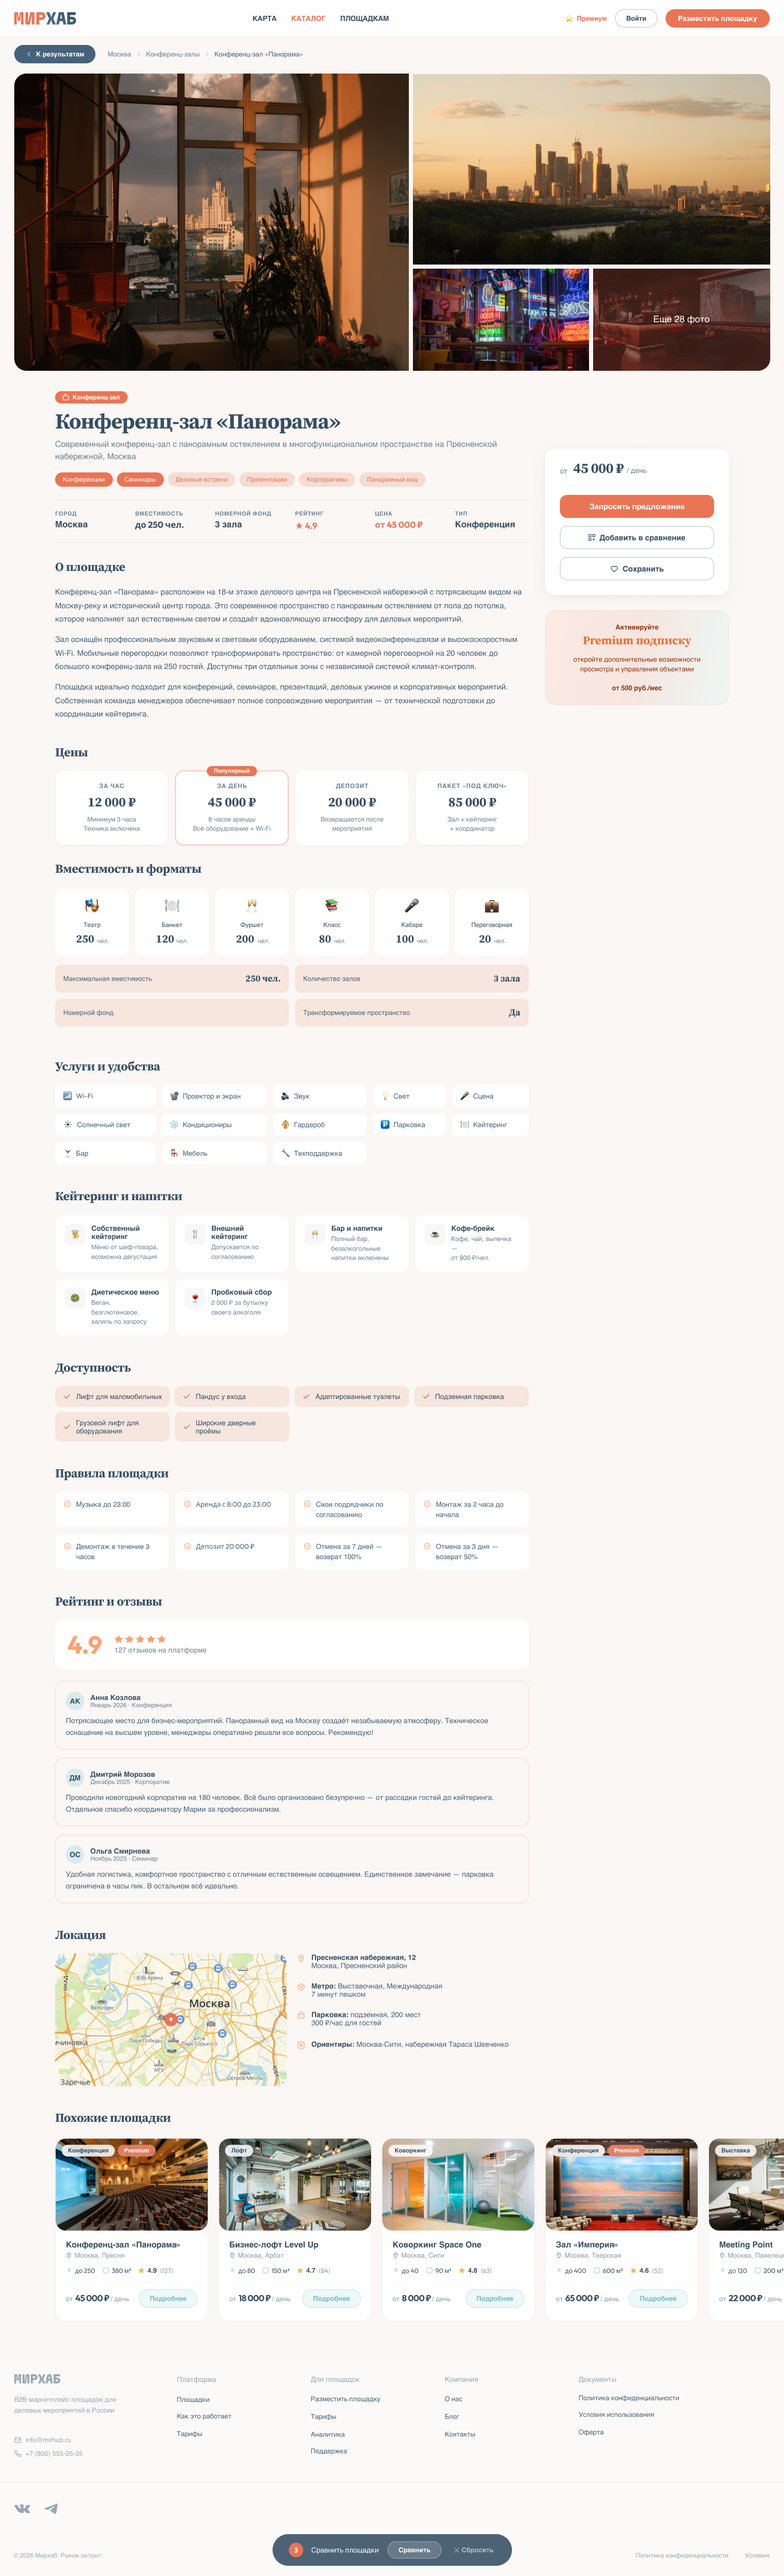
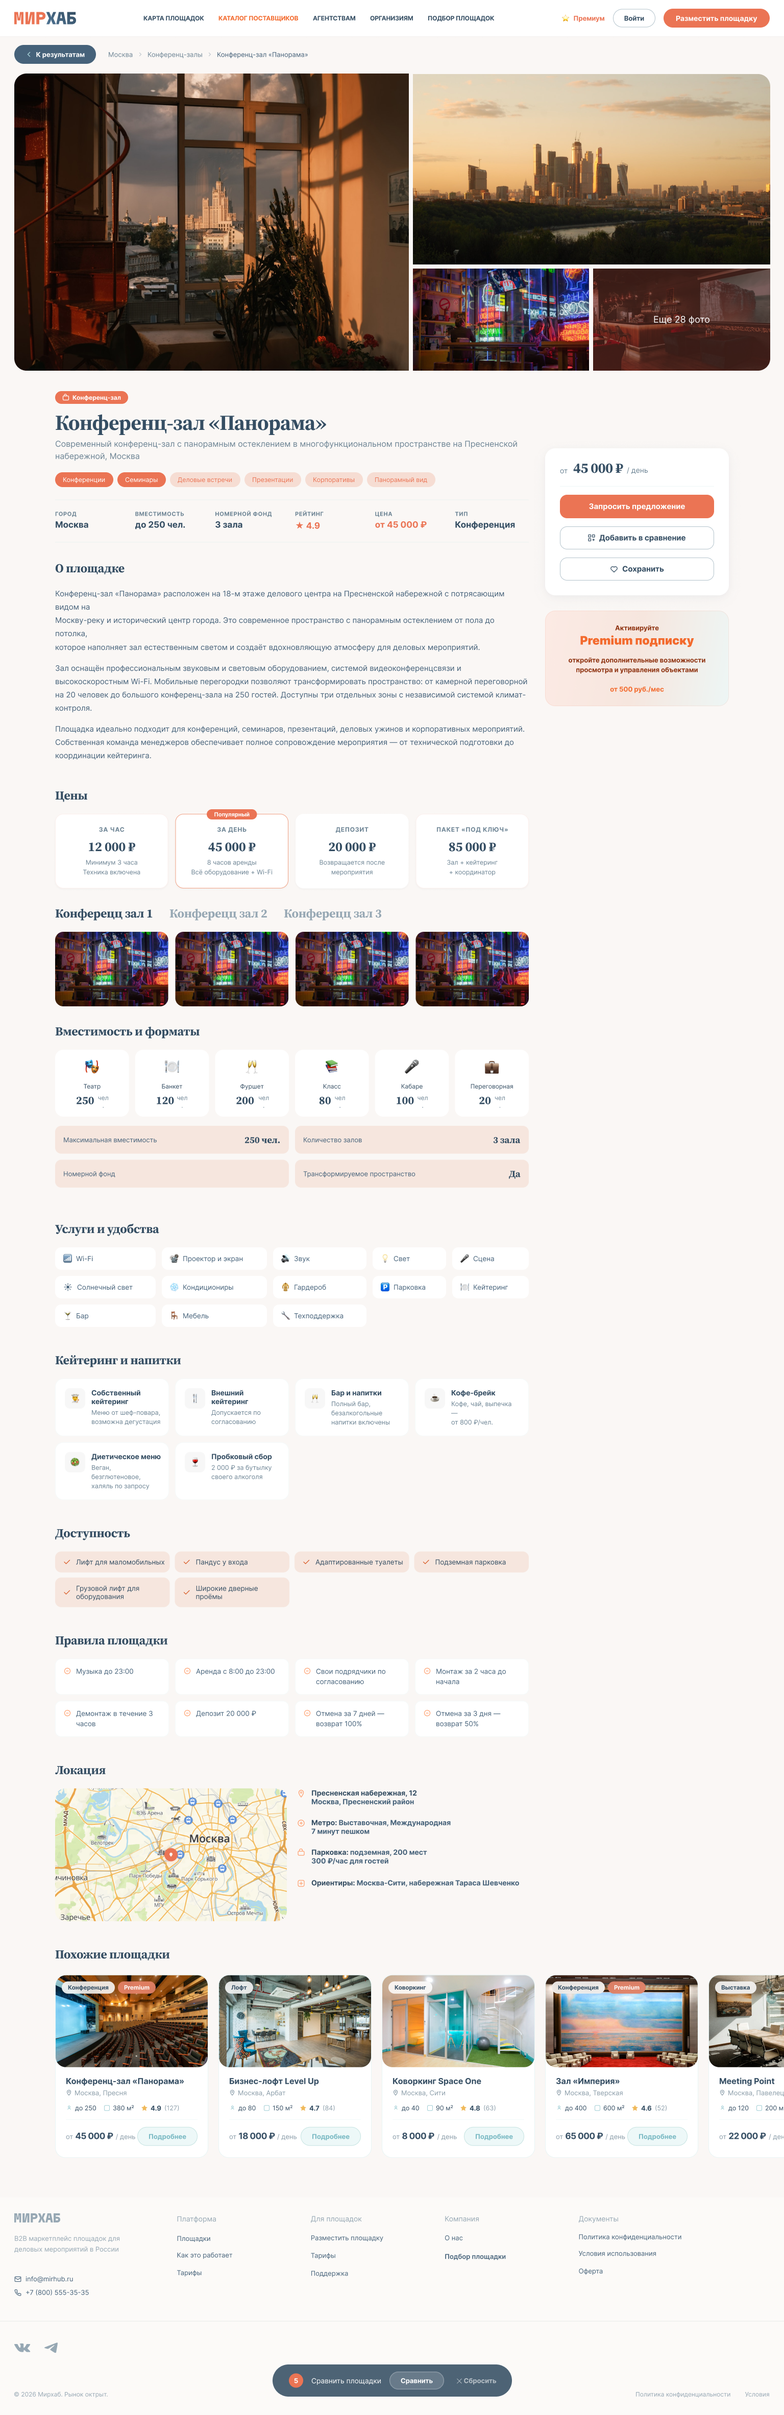
Add feedback popup, История презентаций section, and bind contact links
- shared.js: Add MH.feedback() modal with name/email/topic chips/message fields and success state; wire footer Поддержка and Связаться с нами links to popup
- dashboard.html: Add История презентаций table to user dashboard overview page
- privacy.html: Replace mailto link with MH.feedback() popup
- venue.html: Bind Написать менеджеру button to MH.feedback()
- assets/shots: Rename screenshot files to remove spaces

diff --git a/app/shared.js b/app/shared.js
@@ -349,11 +349,12 @@ const MH = (() => {
             <h4>Для площадок</h4>
             <a href="list-venue.html">Разместить площадку</a>
             <a href="pricing.html">Тарифы</a>
-            <a href="#">Поддержка</a>
+            <a href="#" onclick="event.preventDefault();MH.feedback()">Поддержка</a>
           </div>
           <div class="mh-ft-col">
             <h4>Компания</h4>
             <a href="#">О нас</a>
+            <a href="#" onclick="event.preventDefault();MH.feedback()">Связаться с нами</a>
             <a href="request-form.html" class="bold">Подбор площадки</a>
           </div>
           <div class="mh-ft-col">
@@ -428,5 +429,155 @@ const MH = (() => {
     }, 3000);
   }
 
-  return { getSession, setSession, clearSession, renderNav, init, toast, go, getFavs, toggleFav, isFav };
+  function feedback() {
+    if (document.getElementById('mh-feedback-overlay')) {
+      document.getElementById('mh-feedback-overlay').style.display = 'flex';
+      return;
+    }
+    const style = document.createElement('style');
+    style.textContent = `
+      #mh-feedback-overlay {
+        position: fixed; inset: 0; z-index: 9000;
+        background: rgba(53,78,99,.35); backdrop-filter: blur(6px);
+        display: flex; align-items: center; justify-content: center; padding: 20px;
+        animation: mhFbIn .2s ease;
+      }
+      @keyframes mhFbIn { from { opacity:0 } to { opacity:1 } }
+      #mh-feedback-modal {
+        background: #fff; border-radius: 20px; width: 100%; max-width: 480px;
+        box-shadow: 0 24px 64px rgba(53,78,99,.18); overflow: hidden;
+        animation: mhFbSlide .25s ease;
+      }
+      @keyframes mhFbSlide { from { transform: translateY(16px); opacity:0 } to { transform: translateY(0); opacity:1 } }
+      .mhfb-head {
+        padding: 24px 28px 0; display: flex; align-items: flex-start; justify-content: space-between;
+      }
+      .mhfb-title { font-family: 'DM Serif Display', serif; font-size: 22px; color: #354E63; }
+      .mhfb-sub { font-size: 13.5px; color: #7A919F; margin-top: 4px; }
+      .mhfb-close {
+        width: 32px; height: 32px; border-radius: 50%; border: 1.5px solid #B4C3CC;
+        background: #fff; color: #7A919F; display: flex; align-items: center; justify-content: center;
+        cursor: pointer; transition: all .2s; flex-shrink: 0; font-size: 14px;
+      }
+      .mhfb-close:hover { border-color: #E8846A; color: #E8846A; }
+      .mhfb-body { padding: 20px 28px 28px; }
+      .mhfb-field { margin-bottom: 16px; }
+      .mhfb-label {
+        display: block; font-size: 11.5px; font-weight: 700; text-transform: uppercase;
+        letter-spacing: .07em; color: #7A919F; margin-bottom: 7px;
+      }
+      .mhfb-input {
+        width: 100%; padding: 11px 15px; border-radius: 10px;
+        border: 1.5px solid rgba(197,227,225,.5); background: #F8F5F2;
+        font-family: 'Outfit', sans-serif; font-size: 14px; color: #354E63;
+        outline: none; transition: border-color .2s;
+      }
+      .mhfb-input:focus { border-color: #E8846A; background: #fff; }
+      .mhfb-row { display: grid; grid-template-columns: 1fr 1fr; gap: 12px; margin-bottom: 16px; }
+      .mhfb-chips { display: flex; gap: 7px; flex-wrap: wrap; }
+      .mhfb-chip {
+        padding: 6px 14px; border-radius: 50px; font-size: 12.5px; font-weight: 500;
+        background: #F6E6DE; color: #46627A; border: 1.5px solid transparent;
+        cursor: pointer; transition: all .18s; font-family: 'Outfit', sans-serif;
+      }
+      .mhfb-chip.sel { background: #FCEAE4; color: #E8846A; border-color: rgba(232,132,106,.3); font-weight: 600; }
+      .mhfb-textarea {
+        width: 100%; padding: 11px 15px; border-radius: 10px;
+        border: 1.5px solid rgba(197,227,225,.5); background: #F8F5F2;
+        font-family: 'Outfit', sans-serif; font-size: 14px; color: #354E63;
+        outline: none; resize: vertical; min-height: 110px; transition: border-color .2s;
+      }
+      .mhfb-textarea:focus { border-color: #E8846A; background: #fff; }
+      .mhfb-btn {
+        width: 100%; padding: 13px; border-radius: 10px; border: none;
+        background: #E8846A; color: #fff; font-family: 'Outfit', sans-serif;
+        font-size: 15px; font-weight: 700; cursor: pointer; transition: all .2s;
+        box-shadow: 0 4px 16px rgba(232,132,106,.28);
+      }
+      .mhfb-btn:hover { background: #d4704f; transform: translateY(-1px); }
+      .mhfb-success { text-align: center; padding: 40px 28px; }
+      .mhfb-success-icon { font-size: 48px; margin-bottom: 14px; }
+      .mhfb-success-title { font-family: 'DM Serif Display', serif; font-size: 22px; color: #354E63; margin-bottom: 8px; }
+      .mhfb-success-text { font-size: 14px; color: #7A919F; line-height: 1.6; }
+    `;
+    document.head.appendChild(style);
+
+    const overlay = document.createElement('div');
+    overlay.id = 'mh-feedback-overlay';
+    overlay.innerHTML = `
+      <div id="mh-feedback-modal" role="dialog" aria-modal="true" aria-label="Обратная связь">
+        <div class="mhfb-head">
+          <div>
+            <div class="mhfb-title">Написать нам</div>
+            <div class="mhfb-sub">Ответим в течение 1 рабочего дня</div>
+          </div>
+          <button class="mhfb-close" id="mhfb-close-btn" aria-label="Закрыть">✕</button>
+        </div>
+        <div class="mhfb-body" id="mhfb-body">
+          <div class="mhfb-row">
+            <div class="mhfb-field">
+              <label class="mhfb-label">Имя</label>
+              <input class="mhfb-input" id="mhfb-name" type="text" placeholder="Анна Козлова">
+            </div>
+            <div class="mhfb-field">
+              <label class="mhfb-label">Email</label>
+              <input class="mhfb-input" id="mhfb-email" type="email" placeholder="anna@company.ru">
+            </div>
+          </div>
+          <div class="mhfb-field">
+            <label class="mhfb-label">Тема</label>
+            <div class="mhfb-chips" id="mhfb-chips">
+              <button class="mhfb-chip sel" data-topic="Вопрос">Вопрос</button>
+              <button class="mhfb-chip" data-topic="Техническая проблема">Техническая проблема</button>
+              <button class="mhfb-chip" data-topic="Предложение">Предложение</button>
+              <button class="mhfb-chip" data-topic="Другое">Другое</button>
+            </div>
+          </div>
+          <div class="mhfb-field">
+            <label class="mhfb-label">Сообщение</label>
+            <textarea class="mhfb-textarea" id="mhfb-msg" placeholder="Опишите ваш вопрос или предложение..."></textarea>
+          </div>
+          <button class="mhfb-btn" id="mhfb-send">Отправить</button>
+        </div>
+      </div>`;
+    document.body.appendChild(overlay);
+
+    function closeFeedback() { overlay.style.display = 'none'; }
+    document.getElementById('mhfb-close-btn').addEventListener('click', closeFeedback);
+    overlay.addEventListener('click', e => { if (e.target === overlay) closeFeedback(); });
+    document.addEventListener('keydown', function esc(e) {
+      if (e.key === 'Escape') { closeFeedback(); document.removeEventListener('keydown', esc); }
+    });
+
+    document.getElementById('mhfb-chips').addEventListener('click', e => {
+      const chip = e.target.closest('.mhfb-chip');
+      if (!chip) return;
+      document.querySelectorAll('#mhfb-chips .mhfb-chip').forEach(c => c.classList.remove('sel'));
+      chip.classList.add('sel');
+    });
+
+    const sess = getSession();
+    if (sess) {
+      document.getElementById('mhfb-name').value = sess.name || '';
+      document.getElementById('mhfb-email').value = sess.email || '';
+    }
+
+    document.getElementById('mhfb-send').addEventListener('click', () => {
+      const name = document.getElementById('mhfb-name').value.trim();
+      const email = document.getElementById('mhfb-email').value.trim();
+      const msg = document.getElementById('mhfb-msg').value.trim();
+      if (!name || !email || !msg) {
+        toast('Заполните все обязательные поля', 'error'); return;
+      }
+      document.getElementById('mhfb-body').innerHTML = `
+        <div class="mhfb-success">
+          <div class="mhfb-success-icon">✉</div>
+          <div class="mhfb-success-title">Сообщение отправлено!</div>
+          <div class="mhfb-success-text">Спасибо, ${name}. Мы свяжемся с вами по адресу ${email} в течение 1 рабочего дня.</div>
+        </div>`;
+      setTimeout(closeFeedback, 3500);
+    });
+  }
+
+  return { getSession, setSession, clearSession, renderNav, init, toast, go, getFavs, toggleFav, isFav, feedback };
 })();

diff --git a/app/dashboard.html b/app/dashboard.html
@@ -578,6 +578,33 @@ dash:()=>{
     </table>
   </div>
 
+  <!-- ── ИСТОРИЯ ПРЕЗЕНТАЦИЙ ── -->
+  <div class="card" style="margin-bottom:28px;padding:0;overflow:hidden">
+    <div style="padding:18px 22px 14px;border-bottom:1px solid rgba(197,227,225,.2)"><div class="section-label">История презентаций</div></div>
+    <table style="width:100%;border-collapse:collapse">
+      <thead><tr style="background:var(--bg)">
+        <th style="padding:10px 22px;text-align:left;font-size:12px;font-weight:600;text-transform:uppercase;letter-spacing:.06em;color:var(--sx)">Название</th>
+        <th style="padding:10px 22px;text-align:left;font-size:12px;font-weight:600;text-transform:uppercase;letter-spacing:.06em;color:var(--sx)">Дата добавления</th>
+        <th style="padding:10px 22px;text-align:right;font-size:12px;font-weight:600;text-transform:uppercase;letter-spacing:.06em;color:var(--sx)"></th>
+      </tr></thead>
+      <tbody>
+        ${[
+          {n:'Конференц-зал «Панорама»',d:'3 мая 2026, 15:03'},
+          {n:'Лофт «Кирпич»',d:'3 мая 2026, 15:03'},
+          {n:'Усадьба «Белые ночи»',d:'3 мая 2026, 15:03'},
+        ].map(p=>`<tr style="border-top:1px solid rgba(197,227,225,.15)">
+          <td style="padding:13px 22px;font-size:13.5px;font-weight:500;color:var(--sd)">${p.n}</td>
+          <td style="padding:13px 22px;font-size:13px;color:var(--sx)">${p.d}</td>
+          <td style="padding:13px 22px;text-align:right;display:flex;justify-content:flex-end;gap:8px">
+            <button style="width:32px;height:32px;border-radius:8px;border:1.5px solid rgba(197,227,225,.4);background:var(--w);color:var(--sx);display:flex;align-items:center;justify-content:center;cursor:pointer;transition:all .2s" onmouseover="this.style.borderColor='var(--c)';this.style.color='var(--c)'" onmouseout="this.style.borderColor='rgba(197,227,225,.4)';this.style.color='var(--sx)'" title="Открыть"><svg width="14" height="14" fill="none" viewBox="0 0 14 14"><circle cx="7" cy="7" r="4.5" stroke="currentColor" stroke-width="1.2"/><circle cx="7" cy="7" r="1.5" fill="currentColor"/></svg></button>
+            <button style="width:32px;height:32px;border-radius:8px;border:1.5px solid rgba(197,227,225,.4);background:var(--w);color:var(--sx);display:flex;align-items:center;justify-content:center;cursor:pointer;transition:all .2s" onmouseover="this.style.borderColor='var(--c)';this.style.color='var(--c)'" onmouseout="this.style.borderColor='rgba(197,227,225,.4)';this.style.color='var(--sx)'" title="Скачать"><svg width="14" height="14" fill="none" viewBox="0 0 14 14"><path d="M7 2v7M4.5 6.5l2.5 3 2.5-3M2 11h10" stroke="currentColor" stroke-width="1.3" stroke-linecap="round" stroke-linejoin="round"/></svg></button>
+            <button style="width:32px;height:32px;border-radius:8px;border:1.5px solid rgba(197,227,225,.4);background:var(--w);color:var(--sx);display:flex;align-items:center;justify-content:center;cursor:pointer;transition:all .2s" onmouseover="this.style.borderColor='#e05050';this.style.color='#e05050'" onmouseout="this.style.borderColor='rgba(197,227,225,.4)';this.style.color='var(--sx)'" title="Удалить"><svg width="14" height="14" fill="none" viewBox="0 0 14 14"><path d="M3 4h8M5 4V2.5a1 1 0 011-1h2a1 1 0 011 1V4M5.5 7v4M8.5 7v4M3 4l.7 7a1 1 0 001 .9h4.6a1 1 0 001-.9L11 4" stroke="currentColor" stroke-width="1.2" stroke-linecap="round"/></svg></button>
+          </td>
+        </tr>`).join('')}
+      </tbody>
+    </table>
+  </div>
+
   <!-- ── TWO COLUMNS: Favorites + Requests ── -->
   <div class="grid-2" style="margin-bottom:32px;align-items:start">
 

diff --git a/app/venue.html b/app/venue.html
@@ -466,7 +466,7 @@ img{display:block;max-width:100%;}
           <div class="contact-stat"><svg width="13" height="13" fill="none" viewBox="0 0 13 13"><circle cx="6.5" cy="6.5" r="4.5" stroke="currentColor" stroke-width="1.1"/><path d="M6.5 4v2.5l1.5 1" stroke="currentColor" stroke-width="1.1" stroke-linecap="round"/></svg>Время ответа: <b>30 мин</b></div>
           <div class="contact-stat"><svg width="13" height="13" fill="currentColor" viewBox="0 0 13 13"><path d="M6.5 0l2 4.06L13 4.7l-3.25 3.17.77 4.47L6.5 10.26 2.48 12.34l.77-4.47L0 4.7l4.5-.64z"/></svg>Рейтинг: <b>4.9</b></div>
         </div>
-        <button class="cta-btn secondary" style="margin:0">Написать менеджеру</button>
+        <button class="cta-btn secondary" style="margin:0" onclick="MH.feedback()">Написать менеджеру</button>
       </div>
     </div>
   </aside>

diff --git a/app/privacy.html b/app/privacy.html
@@ -295,7 +295,7 @@ a{text-decoration:none;color:inherit;}
           <h3>Есть вопросы по обработке данных?</h3>
           <p>Наш ответственный за защиту персональных данных<br>ответит в течение 10 рабочих дней.</p>
         </div>
-        <a href="mailto:privacy@mirhub.ru"><button class="contact-btn">Написать нам</button></a>
+        <button class="contact-btn" onclick="MH.feedback()">Написать нам</button>
       </div>
     </div>
 
